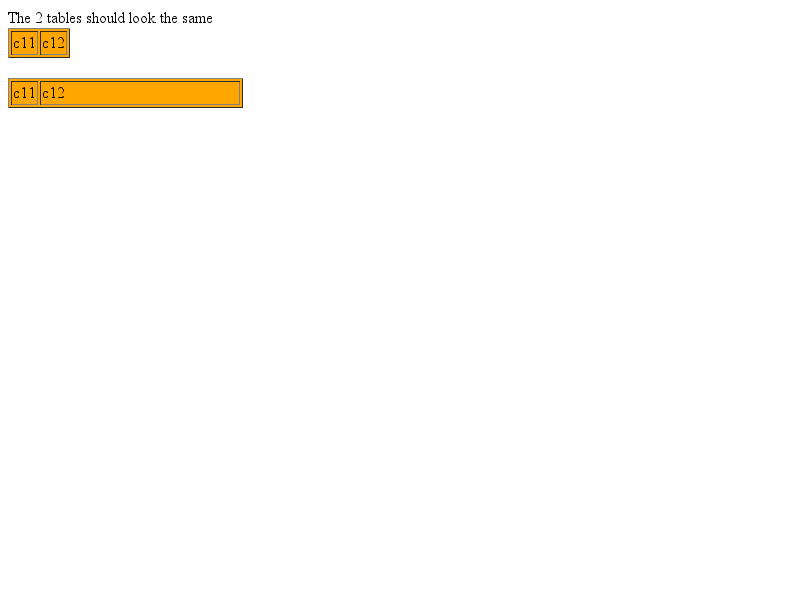
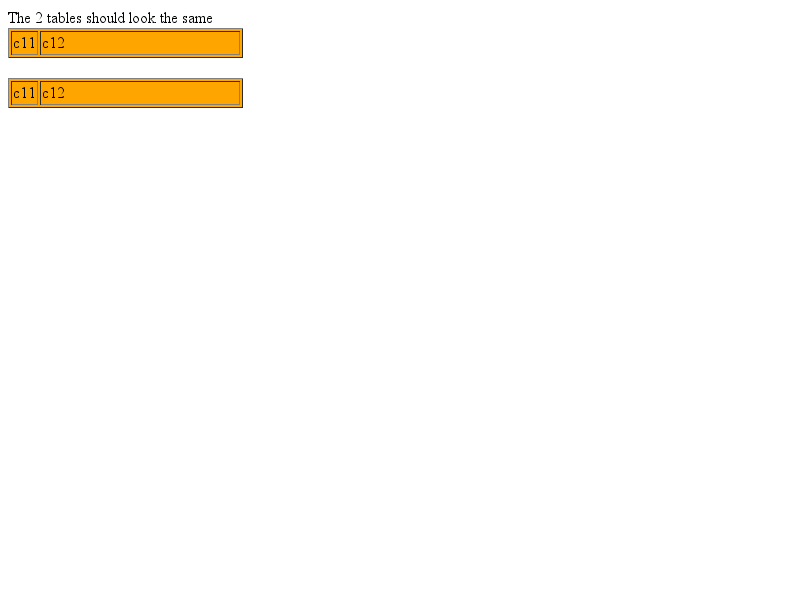
Not able to set width using ColGroup in the table.
We ignored a col / colgroup that were not present at the start of the table
for the purpose of layout.

Other browsers would take into account the col / colgroup anywhere in the table
so this change makes us match them.

The 2 new baselines are progressions (as in we match other browsers)

R=jchaffraix@chromium.org
BUG=305169

Review URL: https://codereview.chromium.org/26360003

git-svn-id: svn://svn.chromium.org/blink/trunk@159442 bbb929c8-8fbe-4397-9dbb-9b2b20218538

Changed region(s): [[0.0625, 0.03, 0.3125, 0.12]]

diff --git a/LayoutTests/fast/table/table-colgroup-present-after-table-row.html b/LayoutTests/fast/table/table-colgroup-present-after-table-row.html
@@ -1,0 +1,29 @@
+<!DOCTYPE html>
+<html>
+<head>
+    <script src="../../resources/check-layout.js"></script>
+    <style>
+    td { font: 15px/1 Ahem }
+    </style>
+</head>
+<body onload="checkLayout('td')">
+<h3>Test for chromium bug : <a href="https://code.google.com/p/chromium/issues/detail?id=305169">305169</a>. &lt;colgroup&gt; is ignored if seen after &lt;tr&gt;.</h3>
+<h4>Columns width are not based on width specified in colGroup becuase colGroup is present after table row and we was supporting it only when colGroup is present at the start in table.</h4>
+  <table style="width: 100%;" border=1px>
+    <tbody>
+      <tr>
+        <td colspan="4">First</td>
+      </tr>
+      <colgroup>
+      <col width="35px">
+      <col width="65px">
+      <col width="100px">
+      </colgroup>
+      <tr >
+	  <td data-expected-width="64">Col-1</td>
+	  <td data-expected-width="65">Col-2</td>
+	  <td data-expected-width="100">Col-3</td>
+	  <td>Col-4</td>
+      </tr>
+  </table>
+</html>

diff --git a/Source/core/rendering/RenderTableCol.cpp b/Source/core/rendering/RenderTableCol.cpp
@@ -153,13 +153,7 @@ RenderTableCol* RenderTableCol::nextColumn() const
     if (!next && parent()->isRenderTableCol())
         next = parent()->nextSibling();
 
-    for (; next && !next->isRenderTableCol(); next = next->nextSibling()) {
-        // We allow captions mixed with columns and column-groups.
-        if (next->isTableCaption())
-            continue;
-
-        return 0;
-    }
+    for (; next && !next->isRenderTableCol(); next = next->nextSibling()) { }
 
     return toRenderTableCol(next);
 }

diff --git a/Source/core/rendering/RenderTable.cpp b/Source/core/rendering/RenderTable.cpp
@@ -851,10 +851,6 @@ RenderTableCol* RenderTable::firstColumn() const
     for (RenderObject* child = firstChild(); child; child = child->nextSibling()) {
         if (child->isRenderTableCol())
             return toRenderTableCol(child);
-
-        // We allow only table-captions before columns or column-groups.
-        if (!child->isTableCaption())
-            return 0;
     }
 
     return 0;
